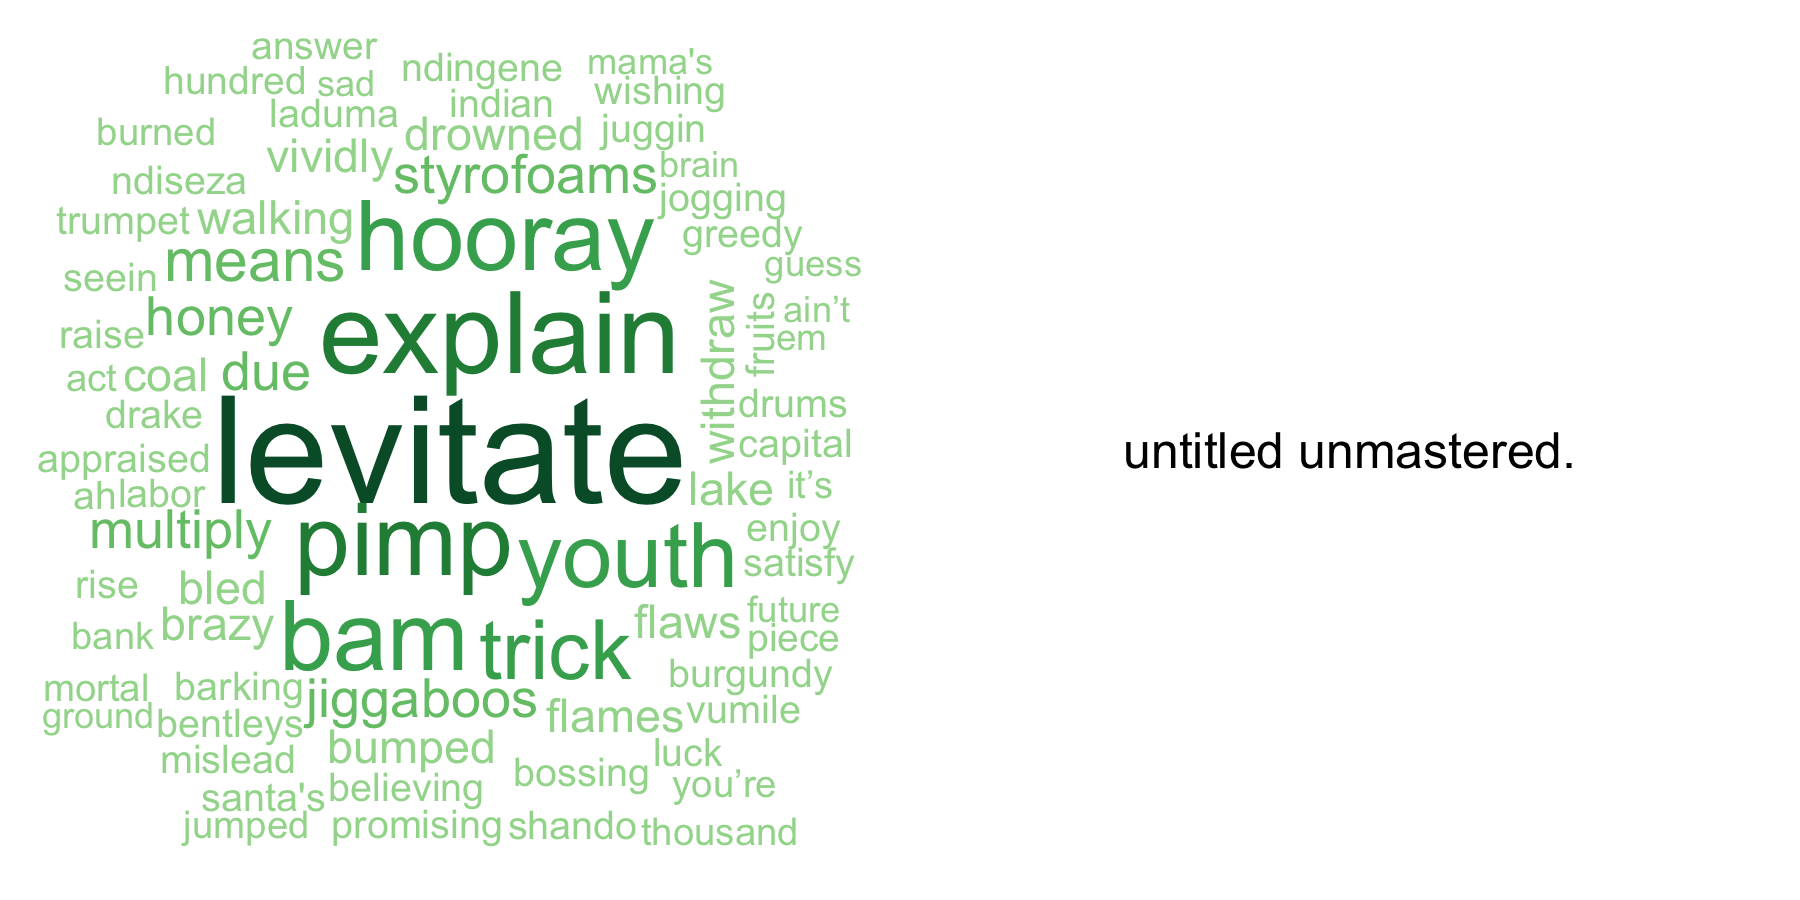
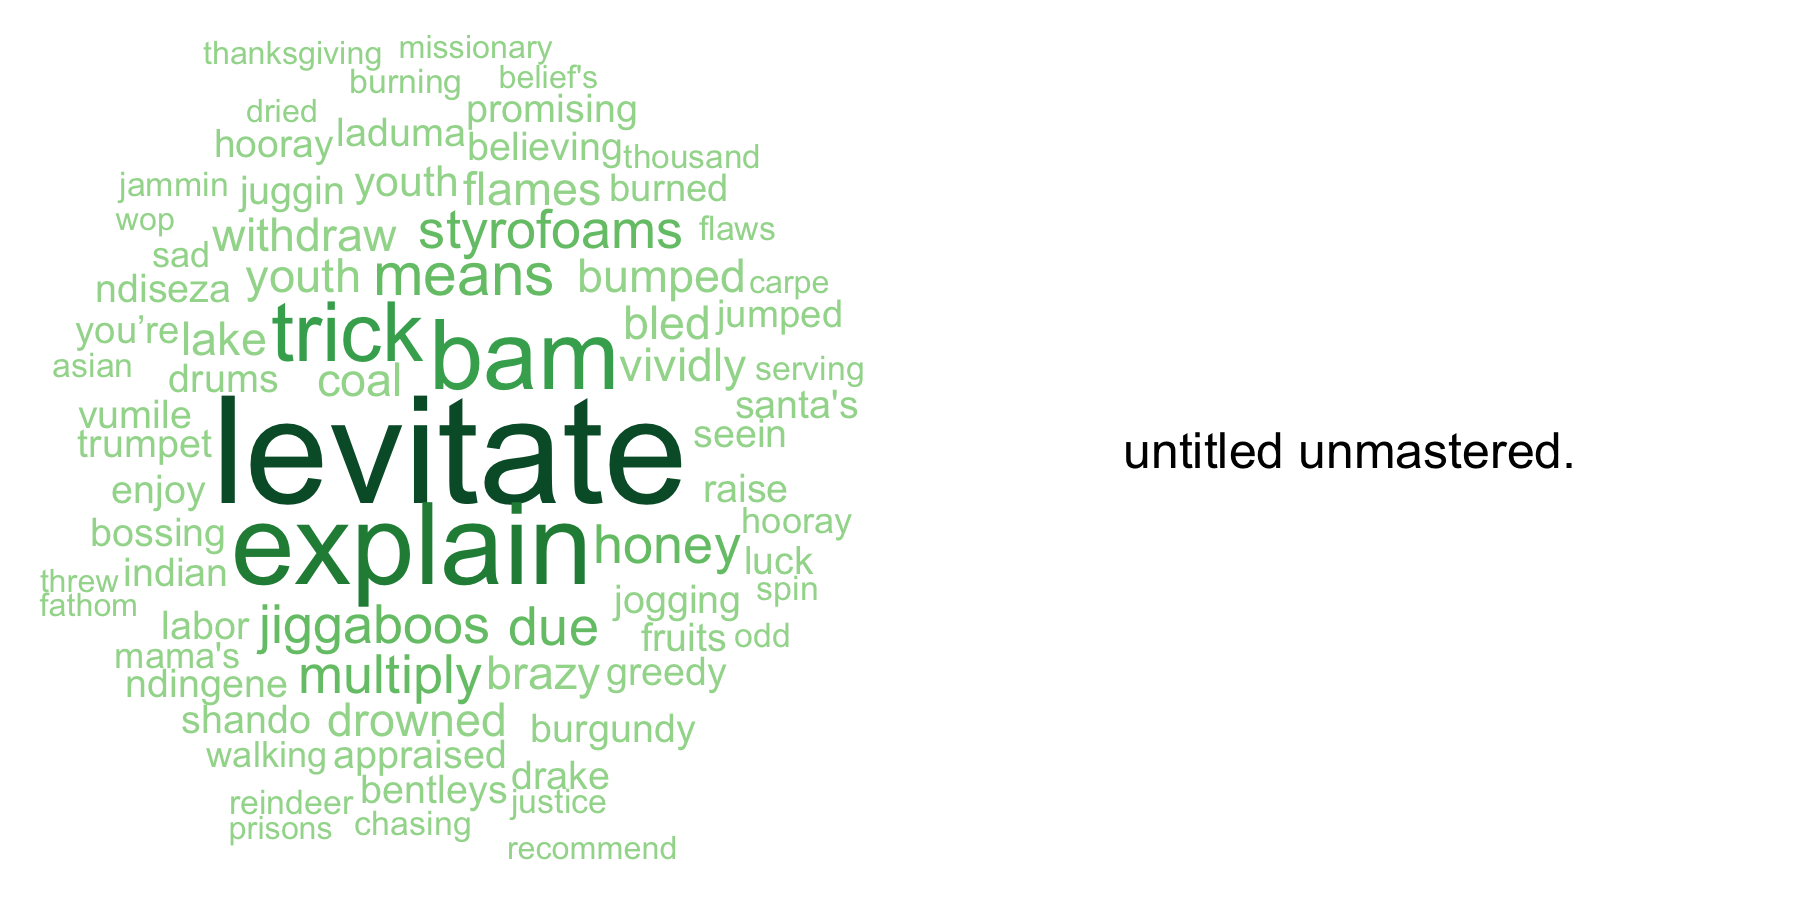
added more to md

Changed region(s): [[0.0, 0.0311, 0.4978, 0.9644]]

diff --git a/results/kendrick.md b/results/kendrick.md
@@ -1,7 +1,9 @@
-Exploring Kendrick Lamar's discography through data science
+Kendrick LamaR
 ================
 
-A few months
+Below is some analysis and visualization of Kendrick Lamar's music, using data from Spotify's and Genius's APIs. The script I used to query the data, which is adapted from RCharlie's post [fitteR happieR](http://rcharlie.com/2017-02-16-fitteR-happieR/), can be found [here](https://github.com/laingdk/kendrick/blob/master/src/scrape_kendrick.R). If you'd like to download the data yourself, you can find it [here](https://github.com/laingdk/kendrick/blob/master/data/scraped_kendrick_data.csv).
+
+Let's get started!
 
 ``` r
 # Load it up.
@@ -19,6 +21,8 @@ album_word_counts <- kendrick %>% group_by(album_name) %>% summarise(word_count 
 # Fix the factor levels.
 kendrick$track_name <- factor(kendrick$track_name, levels = as.character(kendrick$track_name))
 ```
+
+Let's see which of Kendrick's songs are the most analysed on Genius. One measure of this is the number of annotations for a given song. The only problem is that some songs have fewer lyrics than others, and no lyric can have more than one annotation. So let's use the number of annotations per lyric.
 
 ``` r
 # Plot the annotations per word.
@@ -40,22 +44,28 @@ annotation_plot <- ggplot(kendrick) +
         xlab("")
 
 # Save the plot.
-ggsave("../data/annotation_plot.png", width = 6, height = 5)
+ggsave("../results/annotation_plot.png", width = 6, height = 5)
 
 # Read it back in.
-annotation_plot <- image_read('../data/annotation_plot.png')
+annotation_plot <- image_read('../results/annotation_plot.png')
 
 # Rotate it.
 annotation_plot <- image_rotate(annotation_plot, 90)
 
 # Save it again.
-image_write(annotation_plot, path = "../data/annotation_plot.png", format = "png")
+image_write(annotation_plot, path = "../results/annotation_plot.png", format = "png")
 ```
 
-![](../data/annotation_plot.png)
+![](../results/annotation_plot.png)
 
 Sentiment Analysis
 ------------------
+
+Spotify's API provides a column called "valence", which is defined as follows:
+
+> A measure from 0.0 to 1.0 describing the musical positiveness conveyed by a track. Tracks with high valence sound more positive (e.g. happy, cheerful, euphoric), while tracks with low valence sound more negative (e.g. sad, depressed, angry).
+
+I'm also interested in the sentiment in the lyrics alone, and I think we can find a better description of the valence of the song by combining the lyric sentiment with Spotify's valence measure. Below I compute the sentiment of each song, by joining the lyrics with the Bing lexicon — a list of words which are labelled (by humans) as positive or negative.
 
 ``` r
 # Change the text from factor to character.
@@ -68,24 +78,7 @@ tidy_kendrick <- kendrick %>% unnest_tokens(word, lyrics)
 cleaned_kendrick <- tidy_kendrick %>%
         anti_join(stop_words)
 
-# Check out the most common words in the corpus.
-cleaned_kendrick %>%
-        count(word, sort = TRUE) %>% 
-        head()
-```
-
-    ## # A tibble: 6 × 2
-    ##    word     n
-    ##   <chr> <int>
-    ## 1 nigga   264
-    ## 2  love   178
-    ## 3  fuck   159
-    ## 4  shit   155
-    ## 5 bitch   144
-    ## 6  feel   131
-
-``` r
-# Get the sentiment of the Bing lexicon.
+# Get the sentiment of words in the Bing lexicon.
 bing <- get_sentiments("bing")
 
 # Get the sentiment across the tracks.
@@ -102,8 +95,10 @@ kendrick <- inner_join(kendrick, kendrick_sentiment)
 kendrick <- kendrick %>% mutate(smart_sentiment = (sentiment + (valence*2)-1)/2)
 ```
 
+We have the sentiment for each song, so let's plot it across Kendrick's discography.
+
 ``` r
-# See how the sentiment changes across the post order.
+# See how the sentiment changes across the albums.
 sentiment_plot <- ggplot(kendrick, aes(x = track_name, y = smart_sentiment, color = smart_sentiment)) +
         geom_hline(aes(yintercept=1, color=1), linetype="dashed", show.legend = FALSE) +
         geom_hline(aes(yintercept=0.5, color=0.5), linetype="dashed", show.legend = FALSE) +
@@ -121,7 +116,6 @@ sentiment_plot <- ggplot(kendrick, aes(x = track_name, y = smart_sentiment, colo
               axis.title.x=element_text(size = 9, angle=180),
               axis.title.y=element_text(size = 9, angle = 90),
               strip.text = element_text(size = 7, angle = 90, vjust=0)) +
-        #labs(title = "Sentiment in Kendrick Lamar's Music and Lyrics") +
         xlab("") +
         ylab("Sentiment in Kendrick Lamar's Music and Lyrics") +
         scale_y_continuous(limits = c(-1,1),
@@ -132,22 +126,31 @@ sentiment_plot <- ggplot(kendrick, aes(x = track_name, y = smart_sentiment, colo
                                       "very positive"))
 
 # Save the plot.
-ggsave("../data/sentiment_plot.png", width = 6, height = 5)
+ggsave("../results/sentiment_plot.png", width = 6, height = 5)
 
 # Read it back in.
-sentiment_plot <- image_read('../data/sentiment_plot.png')
+sentiment_plot <- image_read('../results/sentiment_plot.png')
 
 # Rotate it.
 sentiment_plot <- image_rotate(sentiment_plot, 90)
 
 # Save it again.
-image_write(sentiment_plot, path = "../data/sentiment_plot.png", format = "png")
+image_write(sentiment_plot, path = "../results/sentiment_plot.png", format = "png")
 ```
 
-![](../data/sentiment_plot.png)
+![](../results/sentiment_plot.png)
+
+You might wonder which words are contributing most to these positive and negative sentiment scores. We'll see this below, but first, a warning: Kendrick is profane.
 
 Topic Modelling
 ---------------
+
+Let's see if we can find any common themes in Kendrick's lyrics. Rather than doing something too fancy, we'll use something fairly simple called the Term Frequency-Inverse Document Frequency, of tf-idf. It is comprised of two parts:
+
+-   The *term frequency* is the frequency at which a term appears in a given document.
+-   The *inverse document frequency* is the frequency at which that term appears across all documents. (It's the proportion of documents which contain the word at least once.)
+
+So, tf-idf tells us which words appear frequently in one set of documents but not so much in others. If a word is barely used in any of the documents, then it will have a low tf-idf. Similarly, if a word shows up in *many* of the documents, then it will have a low tf-idf. What counts is whether it shows up consistently in one set of documents but not all the others. Let's take a look at the words with the highest tf-idf for each album.
 
 ``` r
 # Get the word counts for each track.
@@ -217,10 +220,12 @@ album_words %>%
     ## #   tf <dbl>, idf <dbl>, tf_idf <dbl>
 
 ``` r
+# Reset the factor levels according to the tf-idf
 plot_albums <- album_words %>%
         arrange(desc(tf_idf)) %>%
         mutate(word = factor(word, levels = rev(unique(word))))
 
+# Plot the words for all the albums.
 plot_albums %>% 
         group_by(album_name) %>%
         top_n(5) %>%
@@ -229,7 +234,7 @@ plot_albums %>%
         geom_col(show.legend = FALSE, alpha = 0.8) +
         labs(x = NULL,
              y = "Term Frequency-Inverse Document Frequency",
-             title = "Most representative words across Kendrick Lamar's Discography") +
+             title = "Representative words across Kendrick Lamar's discography") +
         facet_wrap(~album_name, nrow = 1, scales = "free") +
         scale_fill_manual(values = c("purple", "darkblue", "darkgrey", "darkgreen", "red")) +
         theme_tufte(base_family = "GillSans") +
@@ -239,8 +244,7 @@ plot_albums %>%
 
 ![](kendrick_files/figure-markdown_github/tfidf-1.png)
 
-Term Frequency-Inverse Document Frequency
------------------------------------------
+Let's use word clouds to see more of the words that are important for each album.
 
 ``` r
 font <- 1
@@ -268,7 +272,6 @@ dev.off()
     ##                 2
 
 ``` r
-?text
 # Word cloud for good kid
 pal2 <- brewer.pal(7, "Blues")
 pal2 <- pal2[-(1:2)]
@@ -372,8 +375,10 @@ ggsave(file="../results/album_top_words.png", g, height = unit(5, "in"), width =
 
 ![](../results/album_top_words.png)
 
-More danceable songs have fewer annotations per word
-----------------------------------------------------
+Correlations between Spotify data and Genius data
+-------------------------------------------------
+
+The fact that we've joined the Spotify data with the Genius data means we have an opportunity to see whether any of the variables from one dataset are correlated with variables from the other. Here are a couple interesting correlations I found:
 
 ``` r
 # Danceable songs are more likely to have a higher number of pageviews.
@@ -447,9 +452,15 @@ summary(lm(I(annotations/song_word_count) ~ danceability, kendrick))
     ## Multiple R-squared:  0.1413, Adjusted R-squared:  0.1278 
     ## F-statistic: 10.53 on 1 and 64 DF,  p-value: 0.001871
 
-References:
+This is almost a bit sad: people come to Genius to look for analysis of the danceable Kendrick songs they hear on the radio, but those danceable songs have fewer annotations per word than average.
+
+References
+----------
 
 <http://rcharlie.com/2017-02-16-fitteR-happieR/> <http://tidytextmining.com/tfidf.html#the-bind_tf_idf-function> <https://cran.r-project.org/web/packages/tidytext/vignettes/tf_idf.html> <https://cran.r-project.org/web/packages/tidytext/vignettes/topic_modeling.html>
+
+Session Info
+------------
 
 ``` r
 sessionInfo()
